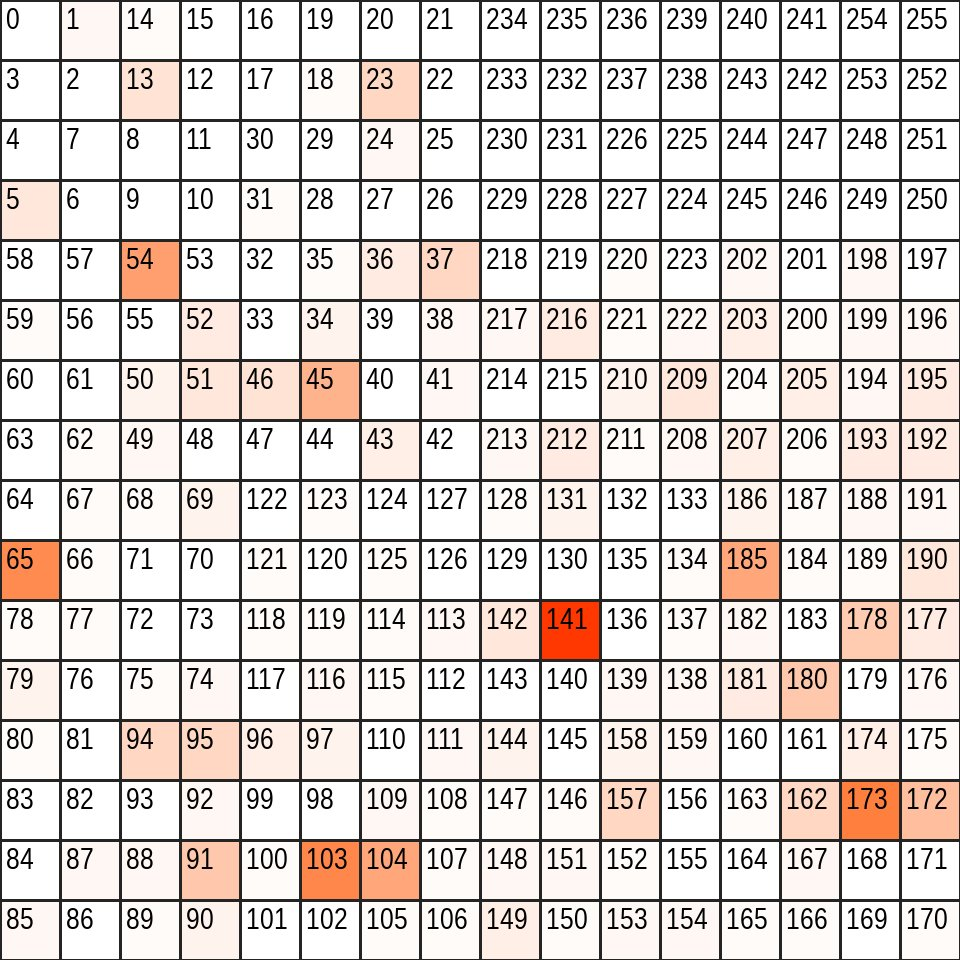
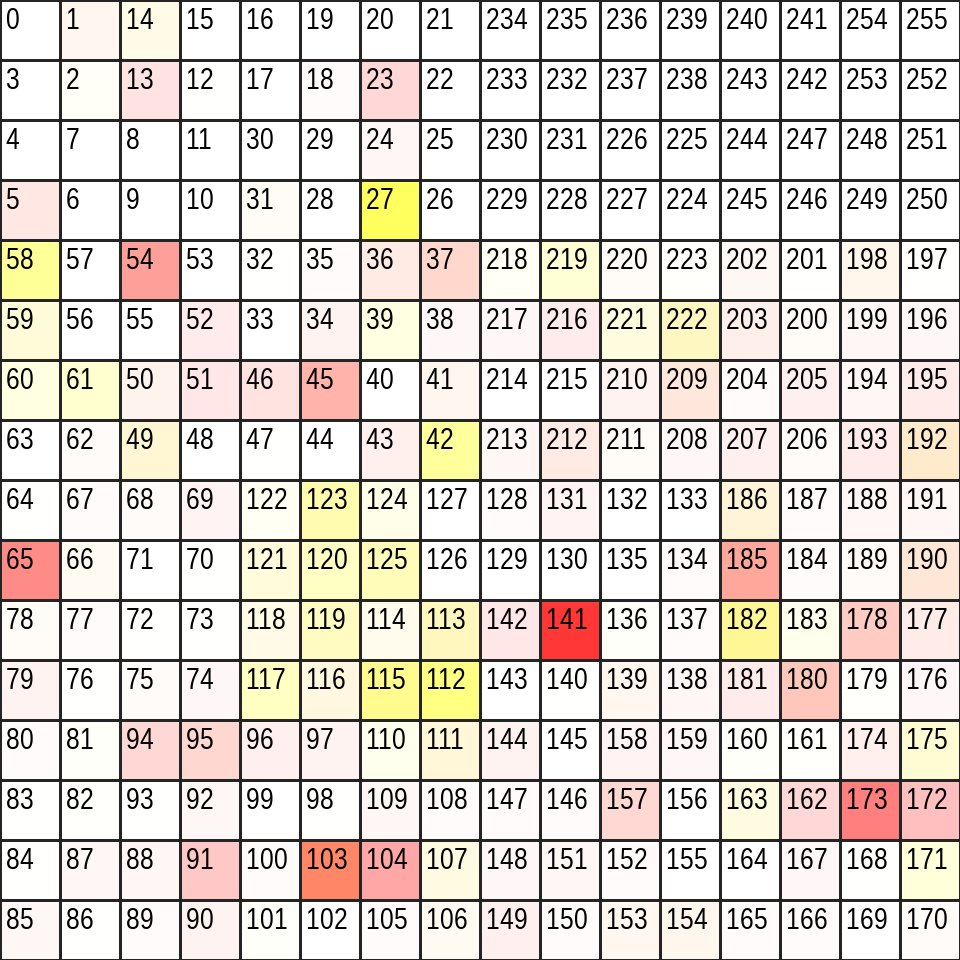
Daily C2 update - see @SarlackLab

diff --git a/docs/index.html b/docs/index.html
@@ -29,34 +29,34 @@
 		<p><i>Kicking files and taking domain names</i></p>
 		<div class="half">
 			<h3>Dangerous /8 spaces across IPv4</h3>
-			<img src="https://raw.githubusercontent.com/Abjuri5t/SarlackLab/main/2021-Maps/2021-September-06.jpg" width="85%">
+			<img src="https://raw.githubusercontent.com/Abjuri5t/SarlackLab/main/2021-Maps/2021-September-07.jpg" width="85%">
 		</div>
 		<div class="half">	
 			<div class="half">
 				<h3>Top 10 Servers</h3>
-				<p> - 173.203.78.138</p>
-				<p> - 141.8.197.42</p>
 				<p> - 141.8.193.236</p>
-				<p> - 180.250.21.2</p>
+				<p> - 141.8.197.42</p>
+				<p> - 192.99.41.136</p>
+				<p> - 68.183.216.174</p>
 				<p> - 141.8.192.151</p>
-				<p> - 158.69.118.130</p>
 				<p> - 65.8.55.116</p>
-				<p> - 65.8.55.183</p>
-				<p> - 59.4.68.75</p>
-				<p> - 91.235.129.8</p>
+				<p> - 158.69.118.130</p>
+				<p> - 13.249.139.218</p>
+				<p> - 180.250.21.2</p>
+				<p> - 152.32.151.93</p>
 			</div>
 			<div class="half">
 				<h3>Top 10 /8 Spaces</h3>
 				<p> - 141.0.0.0/8</p>
-				<p> - 173.0.0.0/8</p>
+				<p> - 13.0.0.0/8</p>
 				<p> - 103.0.0.0/8</p>
-				<p> - 65.0.0.0/8</p>
-				<p> - 54.0.0.0/8</p>
 				<p> - 185.0.0.0/8</p>
+				<p> - 65.0.0.0/8</p>
 				<p> - 104.0.0.0/8</p>
+				<p> - 192.0.0.0/8</p>
 				<p> - 45.0.0.0/8</p>
+				<p> - 54.0.0.0/8</p>
 				<p> - 172.0.0.0/8</p>
-				<p> - 180.0.0.0/8</p>
 			</div>
 		</div>
 		<br>
@@ -67,14 +67,14 @@
 			<b style="color:#FF3333">Red:</b> command-and-control (C2) servers<br>
 			<b style="color:#FFFF33">Yellow:</b> malware download payloads (<a href="https://urlhaus.abuse.ch/browse/">URLhaus</a>)<br>
 			<b style="color:#FF9933">Orange:</b> some combination of the two<br>
-			The lighter a space appears, the less-dangerous it is
+			The darker a space appears, the more dangerous it is
 		</p>
 		<p>Map history available in <a href="https://github.com/Abjuri5t/SarlackLab/tree/main/2021-Maps/">/2021-Maps/</a> directory</p>
 		<p>XKCD has a <a href="https://xkcd.com/195/">comic</a> explaining IPv4 Hilbert curves</p>
 		<br>
 		<h2>About Sarlack-Lab</h2>
 		<p>
-			I built the Sarlack to "devour malware in a sandbox". The server automatically grabbed and analyzed malware samples for personal research and to assist my SOC. While studying network detection trends, I began to notice patterns among malicious IP addresses. Many of the IPs appeared to be hosted in similar IP spaces (even across different ASNs). I created a map to visualize this threat landscape using the fantastic resources provided by <a href="https://cybercrime-tracker.net">Xylitol</a>, <a href="https://feodotracker.abuse.ch">abuse.ch</a>, <a href="https://www.hybrid-analysis.com">Hybrid Analysis</a>, <a href="https://twitter.com/ScumBots">Paul Melson</a>, <a href="https://azorult-tracker.net">AZORult Tracker</a>, <a href="https://threatshare.io">Fred HK</a>, and <a href="https://fr3d.hk">Dee</a>.
+			I built the Sarlack to "devour malware in a sandbox". The server automatically grabbed and analyzed malware samples for personal research and to assist my SOC. While studying network detection trends, I began to notice patterns among malicious IP addresses. Many of the IPs appeared to be hosted in similar IP spaces (even across different ASNs). I created a map to visualize this threat landscape using the fantastic resources provided by <a href="https://cybercrime-tracker.net">Xylitol</a>, <a href="https://feodotracker.abuse.ch">abuse.ch</a>, <a href="https://www.hybrid-analysis.com">Hybrid Analysis</a>, <a href="https://twitter.com/ScumBots">Paul Melson</a>, <a href="https://azorult-tracker.net">AZORult Tracker</a>, <a href="https://threatshare.io">Fred HK</a>, and <a href="https://viriback.com/">Dee</a>.
 		</p>
 		<p>
 			In the future, I plan on training the Sarlack to autonomously hunt C2 servers by looking for patterns among sandbox reports. Once the C2 protocol has been verified and multiple samples have been analyzed, the C2 server will be shared publicly and added to the map.
